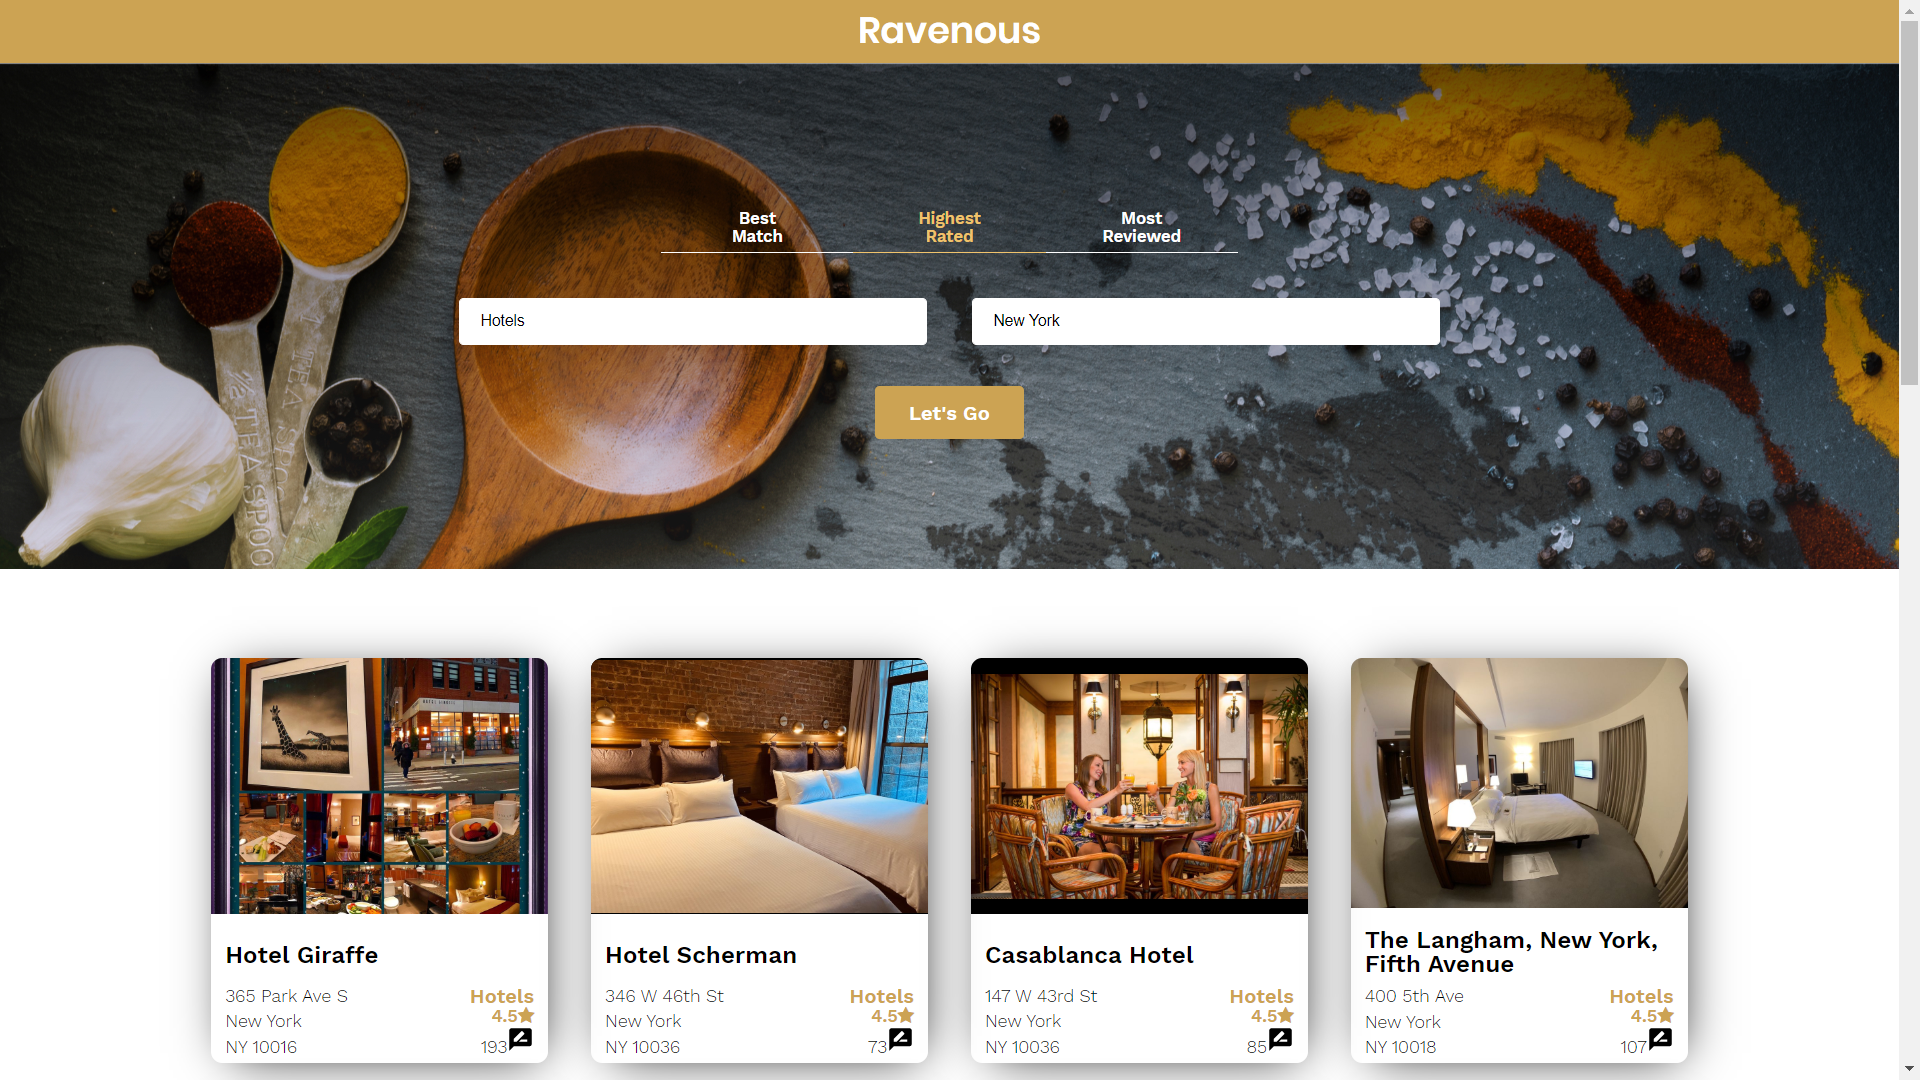
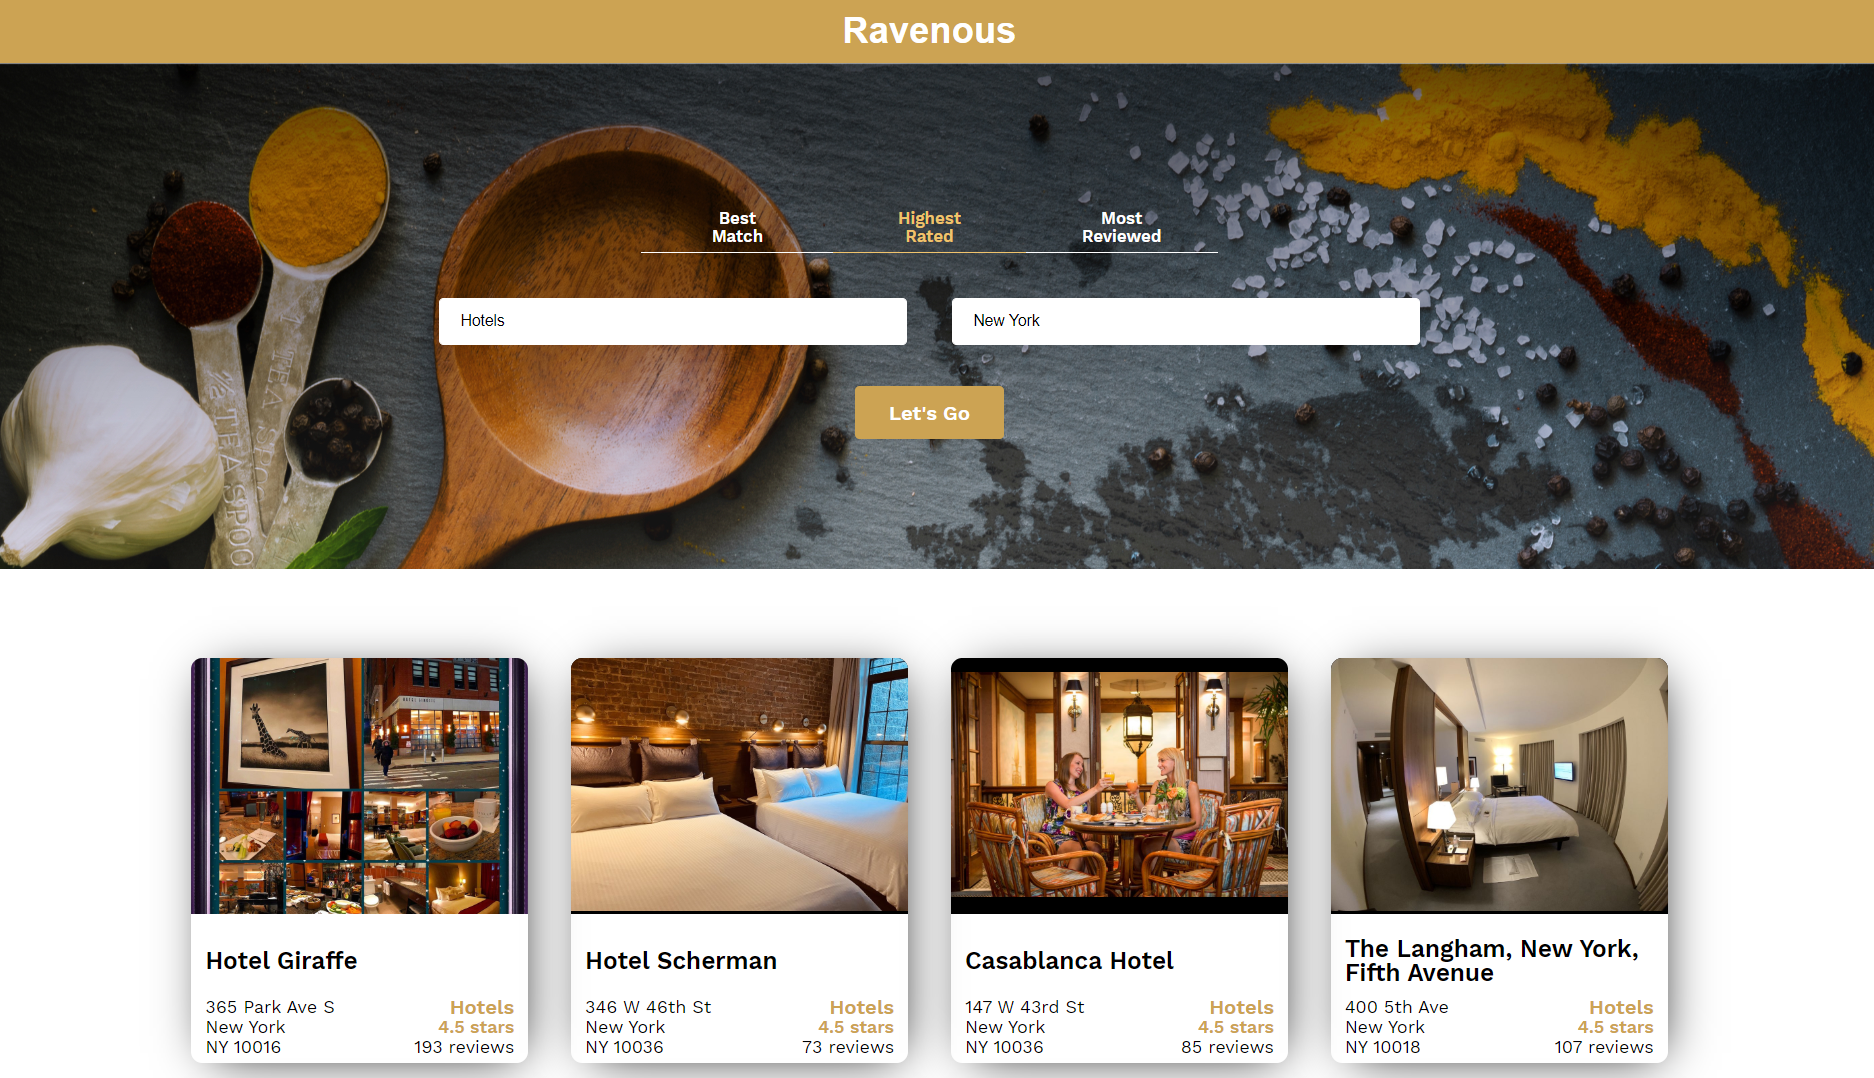
fix: minor issues

diff --git a/src/components/footer/footer.js b/src/components/footer/footer.js
@@ -9,7 +9,7 @@ const Footer = () => {
     <MDBFooter color="blue" className="font-small pt-4 mt-4">
       <div className="footer-copyright text-center py-3">
         <MDBContainer className="footer" fluid >
-          &copy; {new Date().getFullYear()} B_ma : Ravenous <a href="https://github.com/saiteja-bma/Ravenous"><Logo className="logo"></Logo></a> 
+          &copy; {new Date().getFullYear()} B_ma : Ravenous <a href="https://github.com/saiteja-bma/Ravenous" target="_blank"><Logo className="logo"></Logo></a> 
         </MDBContainer>
       </div>
     </MDBFooter>

diff --git a/src/components/App/App.css b/src/components/App/App.css
@@ -51,7 +51,7 @@ h1 {
   text-align: center;
   background-color: #cca353;
   color: #ffffff;
-  font-size: 25px;
+  font-size: 20px;
 }
 
 .logo {
